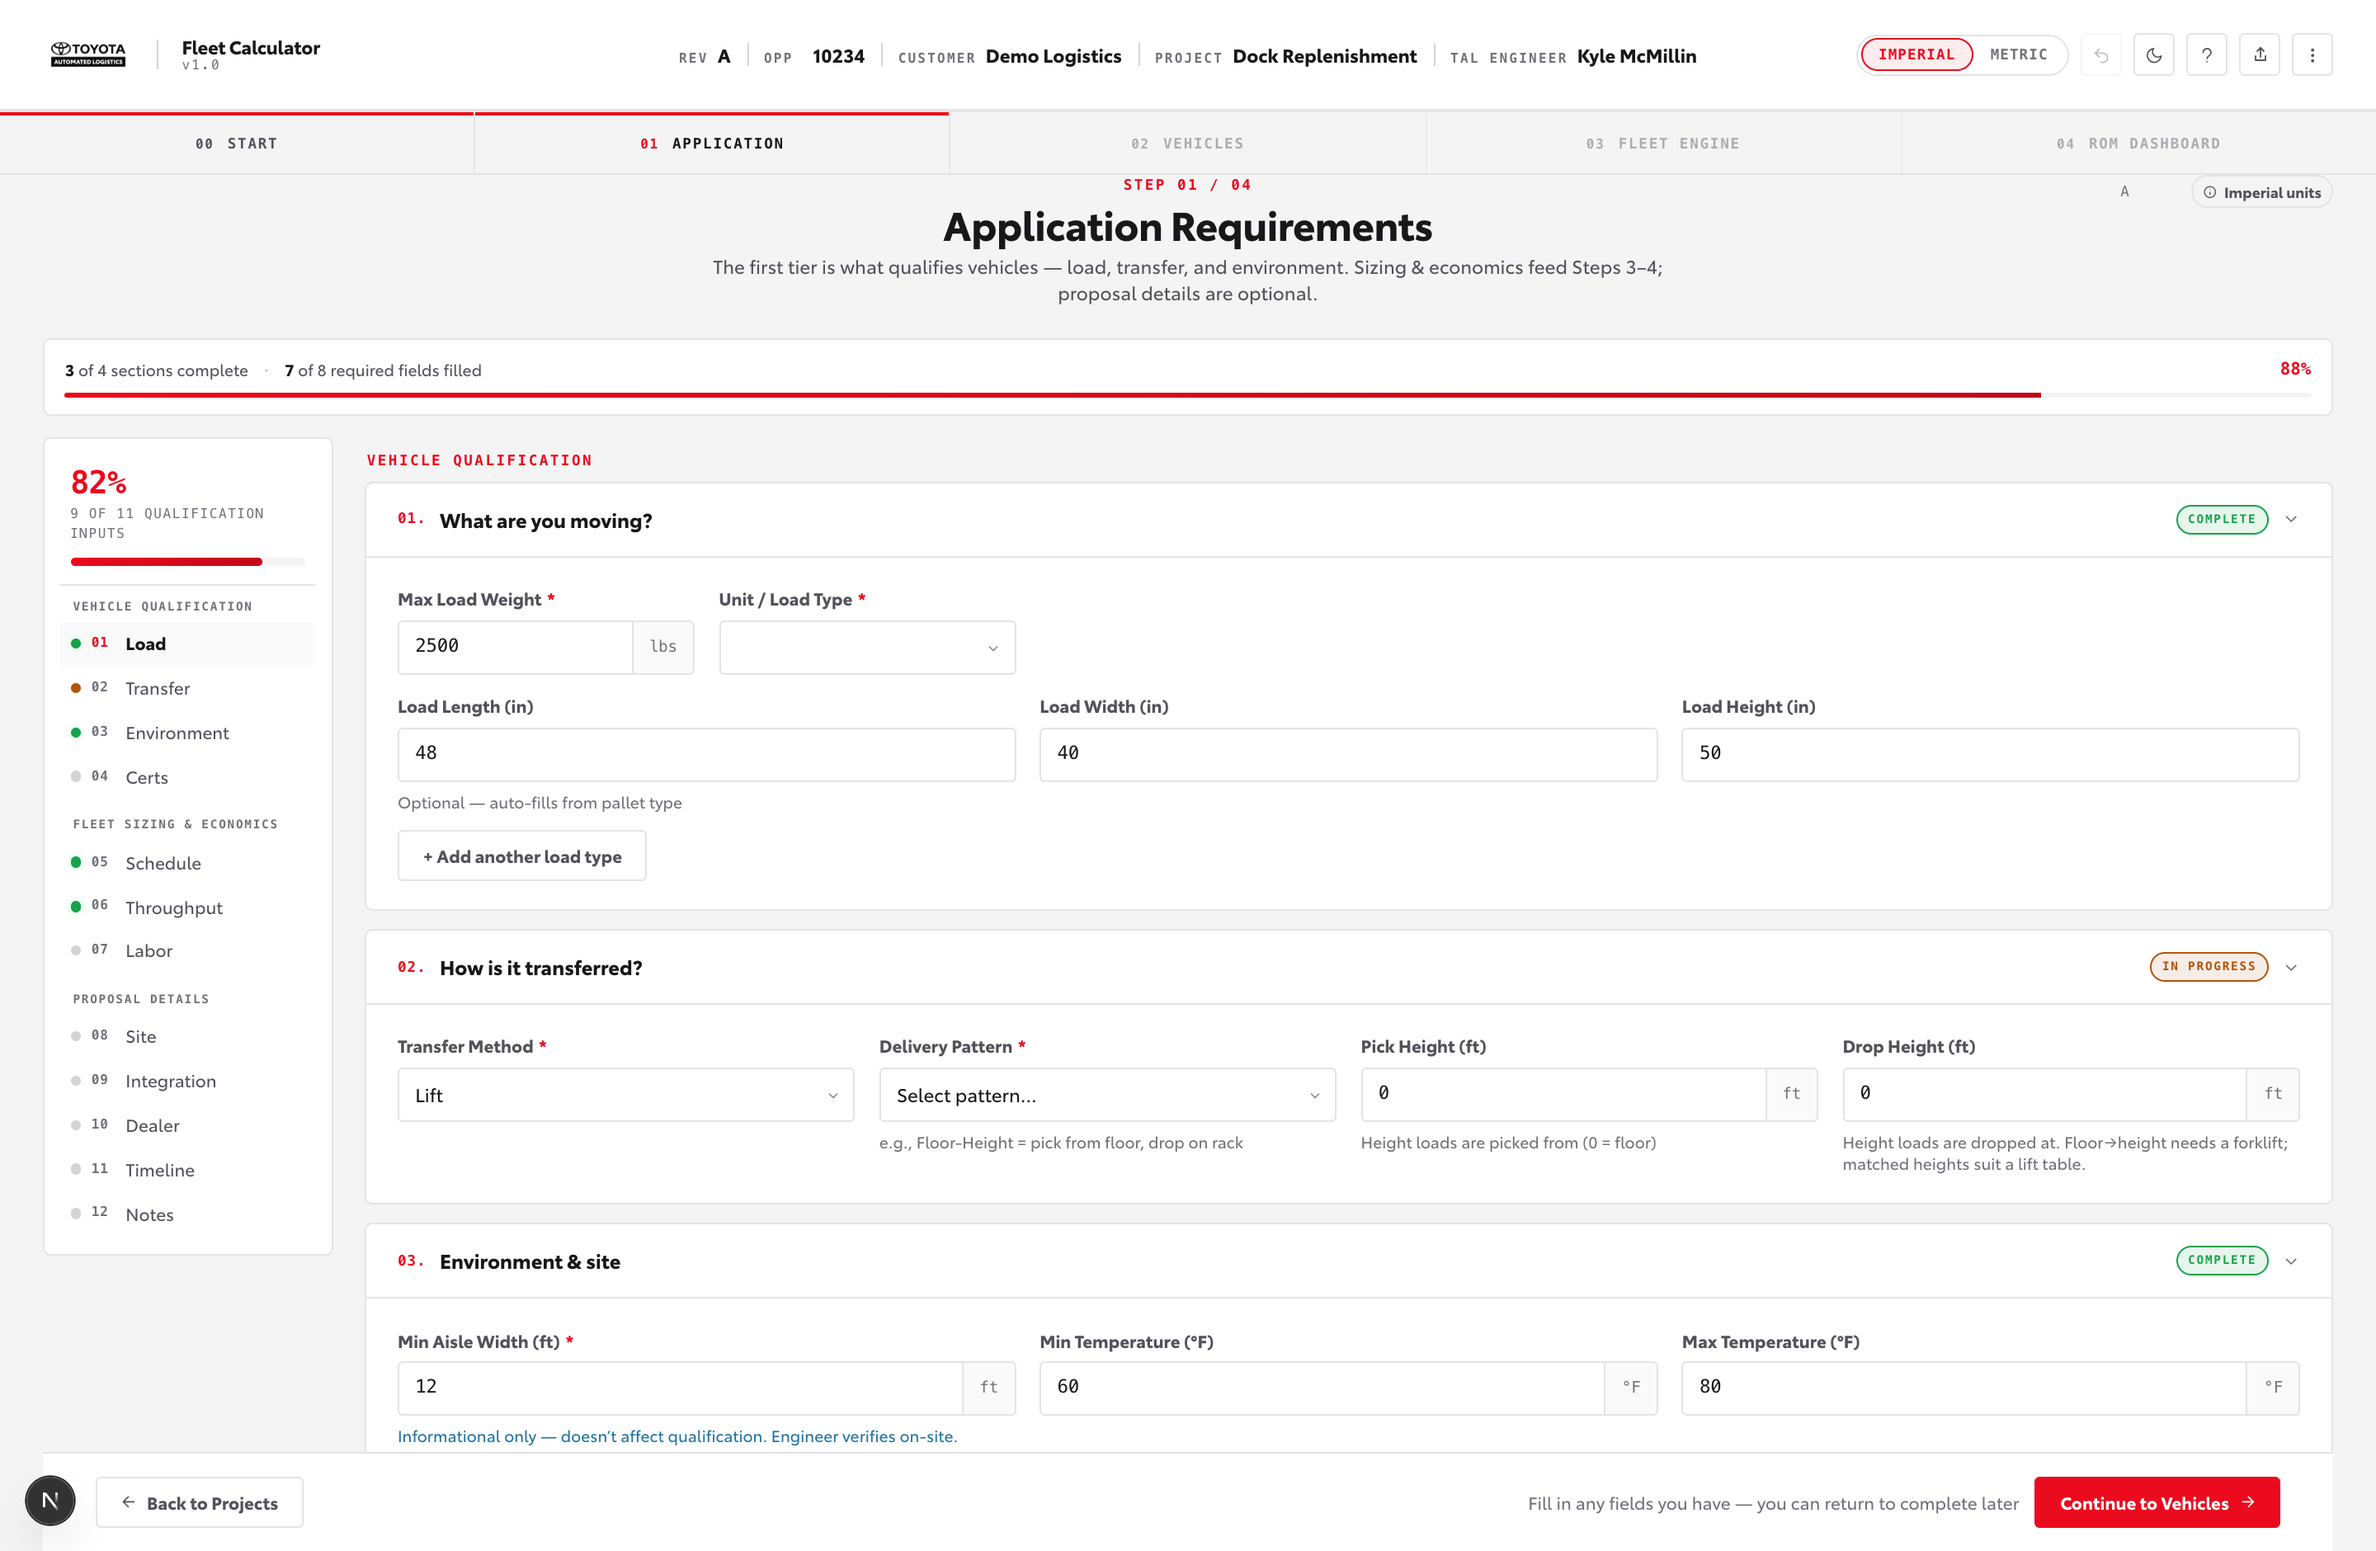
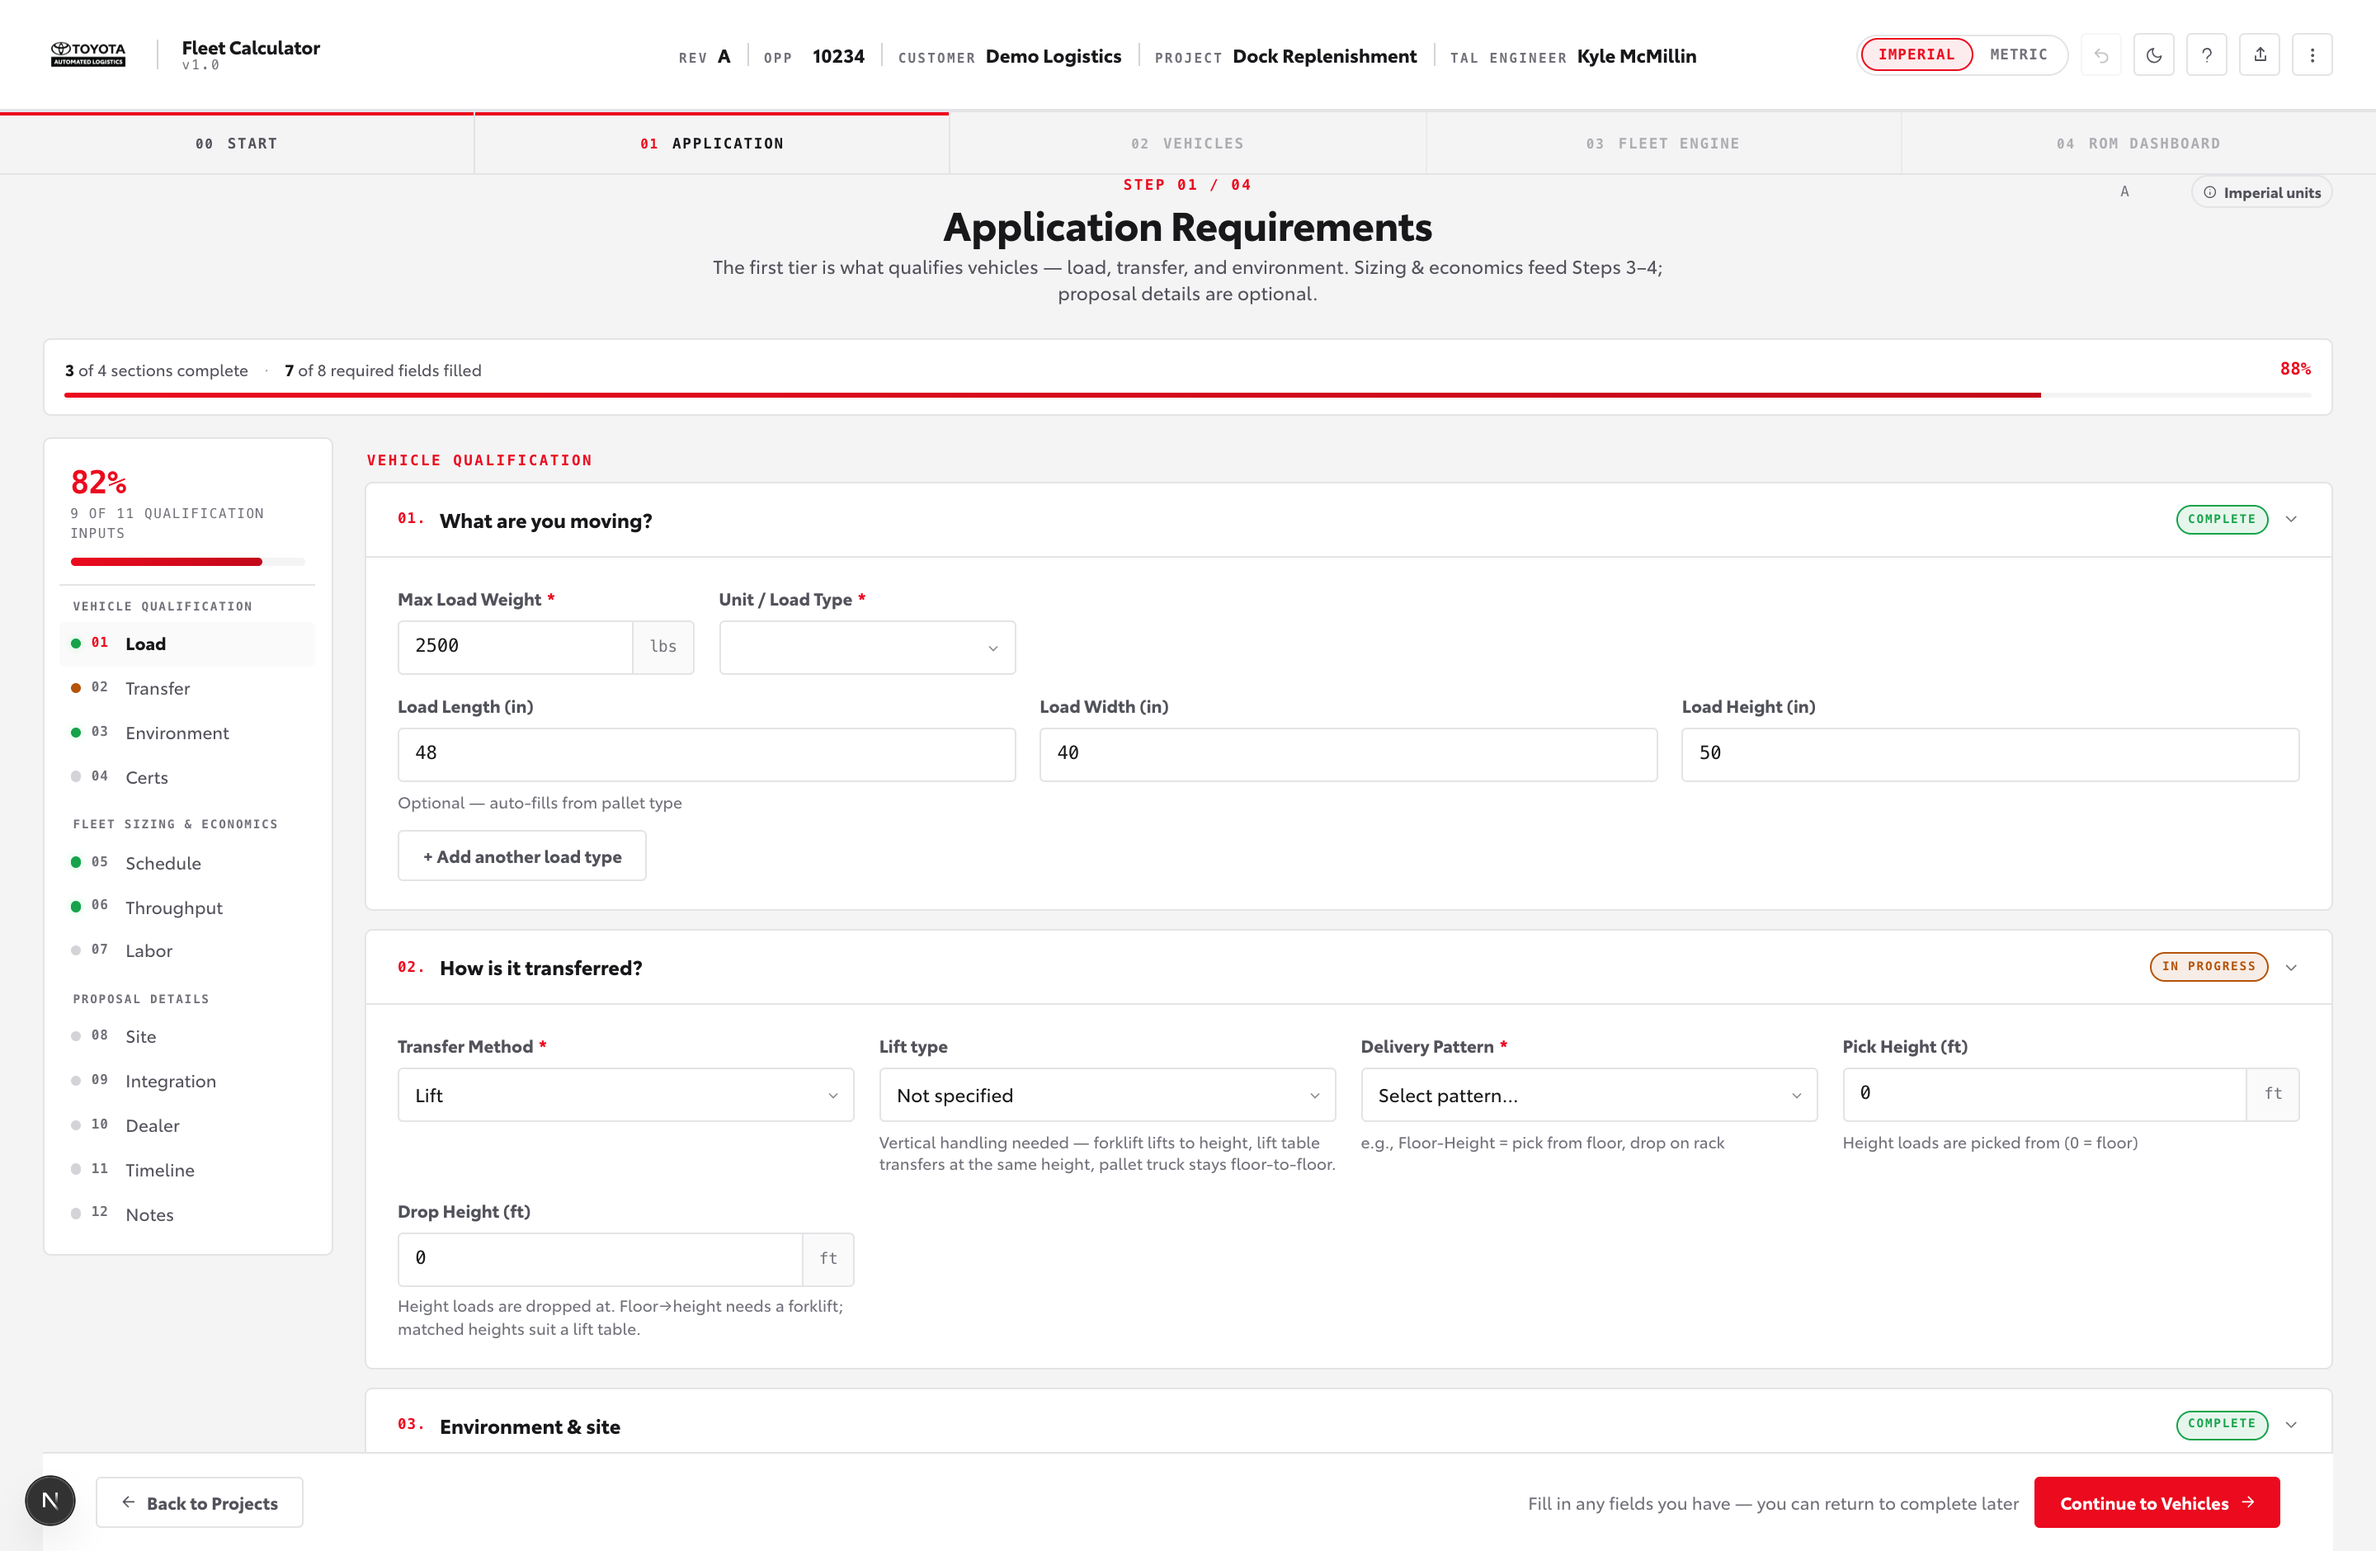
'Eval in process' badge + E7 (Oppent) data update
- Step 2 cards show an amber 'Eval in process' badge (caution icon) instead of the
  traffic light when a hard requirement is still unanswered (work-in-progress); a
  hard RED still shows (definitive).
- E7 Unit Load (Oppent): fleet software -> BlueBotics FM, T-Hive enabled, and the
  Pin transfer method replaced with Conveyor (3/3s, estimate). Snapshot updated.
- Re-captured Help screenshots (Step 1 now shows the Lift type field).

diff --git a/src/components/step2/VehicleCard.tsx b/src/components/step2/VehicleCard.tsx
@@ -55,6 +55,9 @@ export default function VehicleCard({ vehicle, result, unitSystem, filterKey }: 
   const gateStatusLabel: Record<string, string> = {
     pass: 'Pass', fail: 'Fail', soft: 'Review', skip: 'Not set',
   }
+  // Evaluation is still "in process" when a hard requirement hasn't been answered
+  // yet (a skipped hard gate) — unless something already fails hard (RED is final).
+  const evalInProcess = status !== 'RED' && result.hardGates.some(g => g.skipped)
   // Spec display strings — shared with the comparison modal (src/lib/vehicleDisplay.ts)
   const capDisplay = capacityDisplay(vehicle, unitSystem)
   const transfers = transferDisplay(vehicle)
@@ -99,7 +102,14 @@ export default function VehicleCard({ vehicle, result, unitSystem, filterKey }: 
                 <div className="name">{vehicle.name}</div>
                 <div className="mfr">{vehicle.display.manufacturer}</div>
               </div>
-              <TrafficLight status={status} />
+              {evalInProcess ? (
+                <span className="veh-eval-wip" title="Not all requirements are answered yet — finish Step 1 for a final verdict">
+                  <Icon name="warn" size={13} />
+                  Eval in process
+                </span>
+              ) : (
+                <TrafficLight status={status} />
+              )}
             </div>
 
             {barGates.length > 0 && (

diff --git a/app/globals.css b/app/globals.css
@@ -1248,6 +1248,18 @@ thead .cmp-rowhead { background: var(--bg-surface); }
 }
 .veh-name-block .mfr { font-size: 12px; color: var(--text-tertiary); margin-top: 3px; }
 
+/* "Eval in process" — shown instead of the traffic light while a hard requirement
+   is still unanswered (work-in-progress), so a partial project doesn't read as a
+   final green/yellow verdict. */
+.veh-eval-wip {
+  display: inline-flex; align-items: center; gap: 5px; flex-shrink: 0;
+  padding: 3px 8px; border-radius: 999px;
+  background: var(--warn-soft); color: var(--warn);
+  border: 1px solid color-mix(in srgb, var(--warn) 40%, transparent);
+  font-size: 11px; font-weight: 700; letter-spacing: 0.01em; white-space: nowrap;
+}
+.veh-eval-wip svg { flex-shrink: 0; }
+
 /* Status indicator — flat semantic icon + colored label (no glow/dot). */
 .traffic-light { display: inline-flex; align-items: center; gap: 6px; flex-shrink: 0; }
 .traffic-light .tl-icon { flex-shrink: 0; stroke-width: 2.4; }

diff --git a/docs/SPECIFICATION.md b/docs/SPECIFICATION.md
@@ -510,7 +510,10 @@ Traffic-light dots are 14 px with an 8 px glow ring and 700-weight label.
 2. **Name / manufacturer** + **status indicator** (`TrafficLight`): a flat semantic icon
    (check / alert-triangle / x) + colored label — GREEN Compatible / YELLOW Review Required
    / RED Not Compatible. No glow or dot. The same component renders the comparison modal's
-   Status row.
+   Status row. **Exception — "Eval in process":** while any hard gate is still unanswered
+   (a skipped hard gate) and nothing fails hard, the card shows an amber **Eval in process**
+   badge (caution icon) instead of the light, so a work-in-progress project doesn't read as
+   a final verdict. A hard fail (RED) always shows, since it is definitive.
 3. **Segmented gate bar**: **every hard gate is always shown** (answered or not) so the
    full set of hard requirements is visible at a glance, plus any soft gate currently in
    play. Color per segment: `pass` (green) · `fail` (red, hard gate) · `soft` (amber, soft

diff --git a/docs/CHANGELOG.md b/docs/CHANGELOG.md
@@ -1,5 +1,14 @@
 # Changelog
 
+## 2026-06-25 — "Eval in process" badge + E7 (Oppent) data
+
+- Step 2 vehicle cards now show an **"Eval in process"** badge (caution icon) instead of the
+  traffic light when a hard requirement hasn't been answered yet — so a partial/work-in-
+  progress project doesn't read as a final green/yellow. A hard **fail** (RED) still shows,
+  since that verdict is definitive.
+- **E7 Unit Load (Oppent)**: fleet software → **BlueBotics FM**, **T-Hive enabled**, and the
+  **Pin** transfer method replaced with **Conveyor** (3/3 s, estimate).
+
 ## 2026-06-24 — Step 1 "Lift type" + cart-payload matching
 
 - New Step 1 **Lift type** dropdown (`liftTypeNeeded`): *Lift to height (forklift)* /
